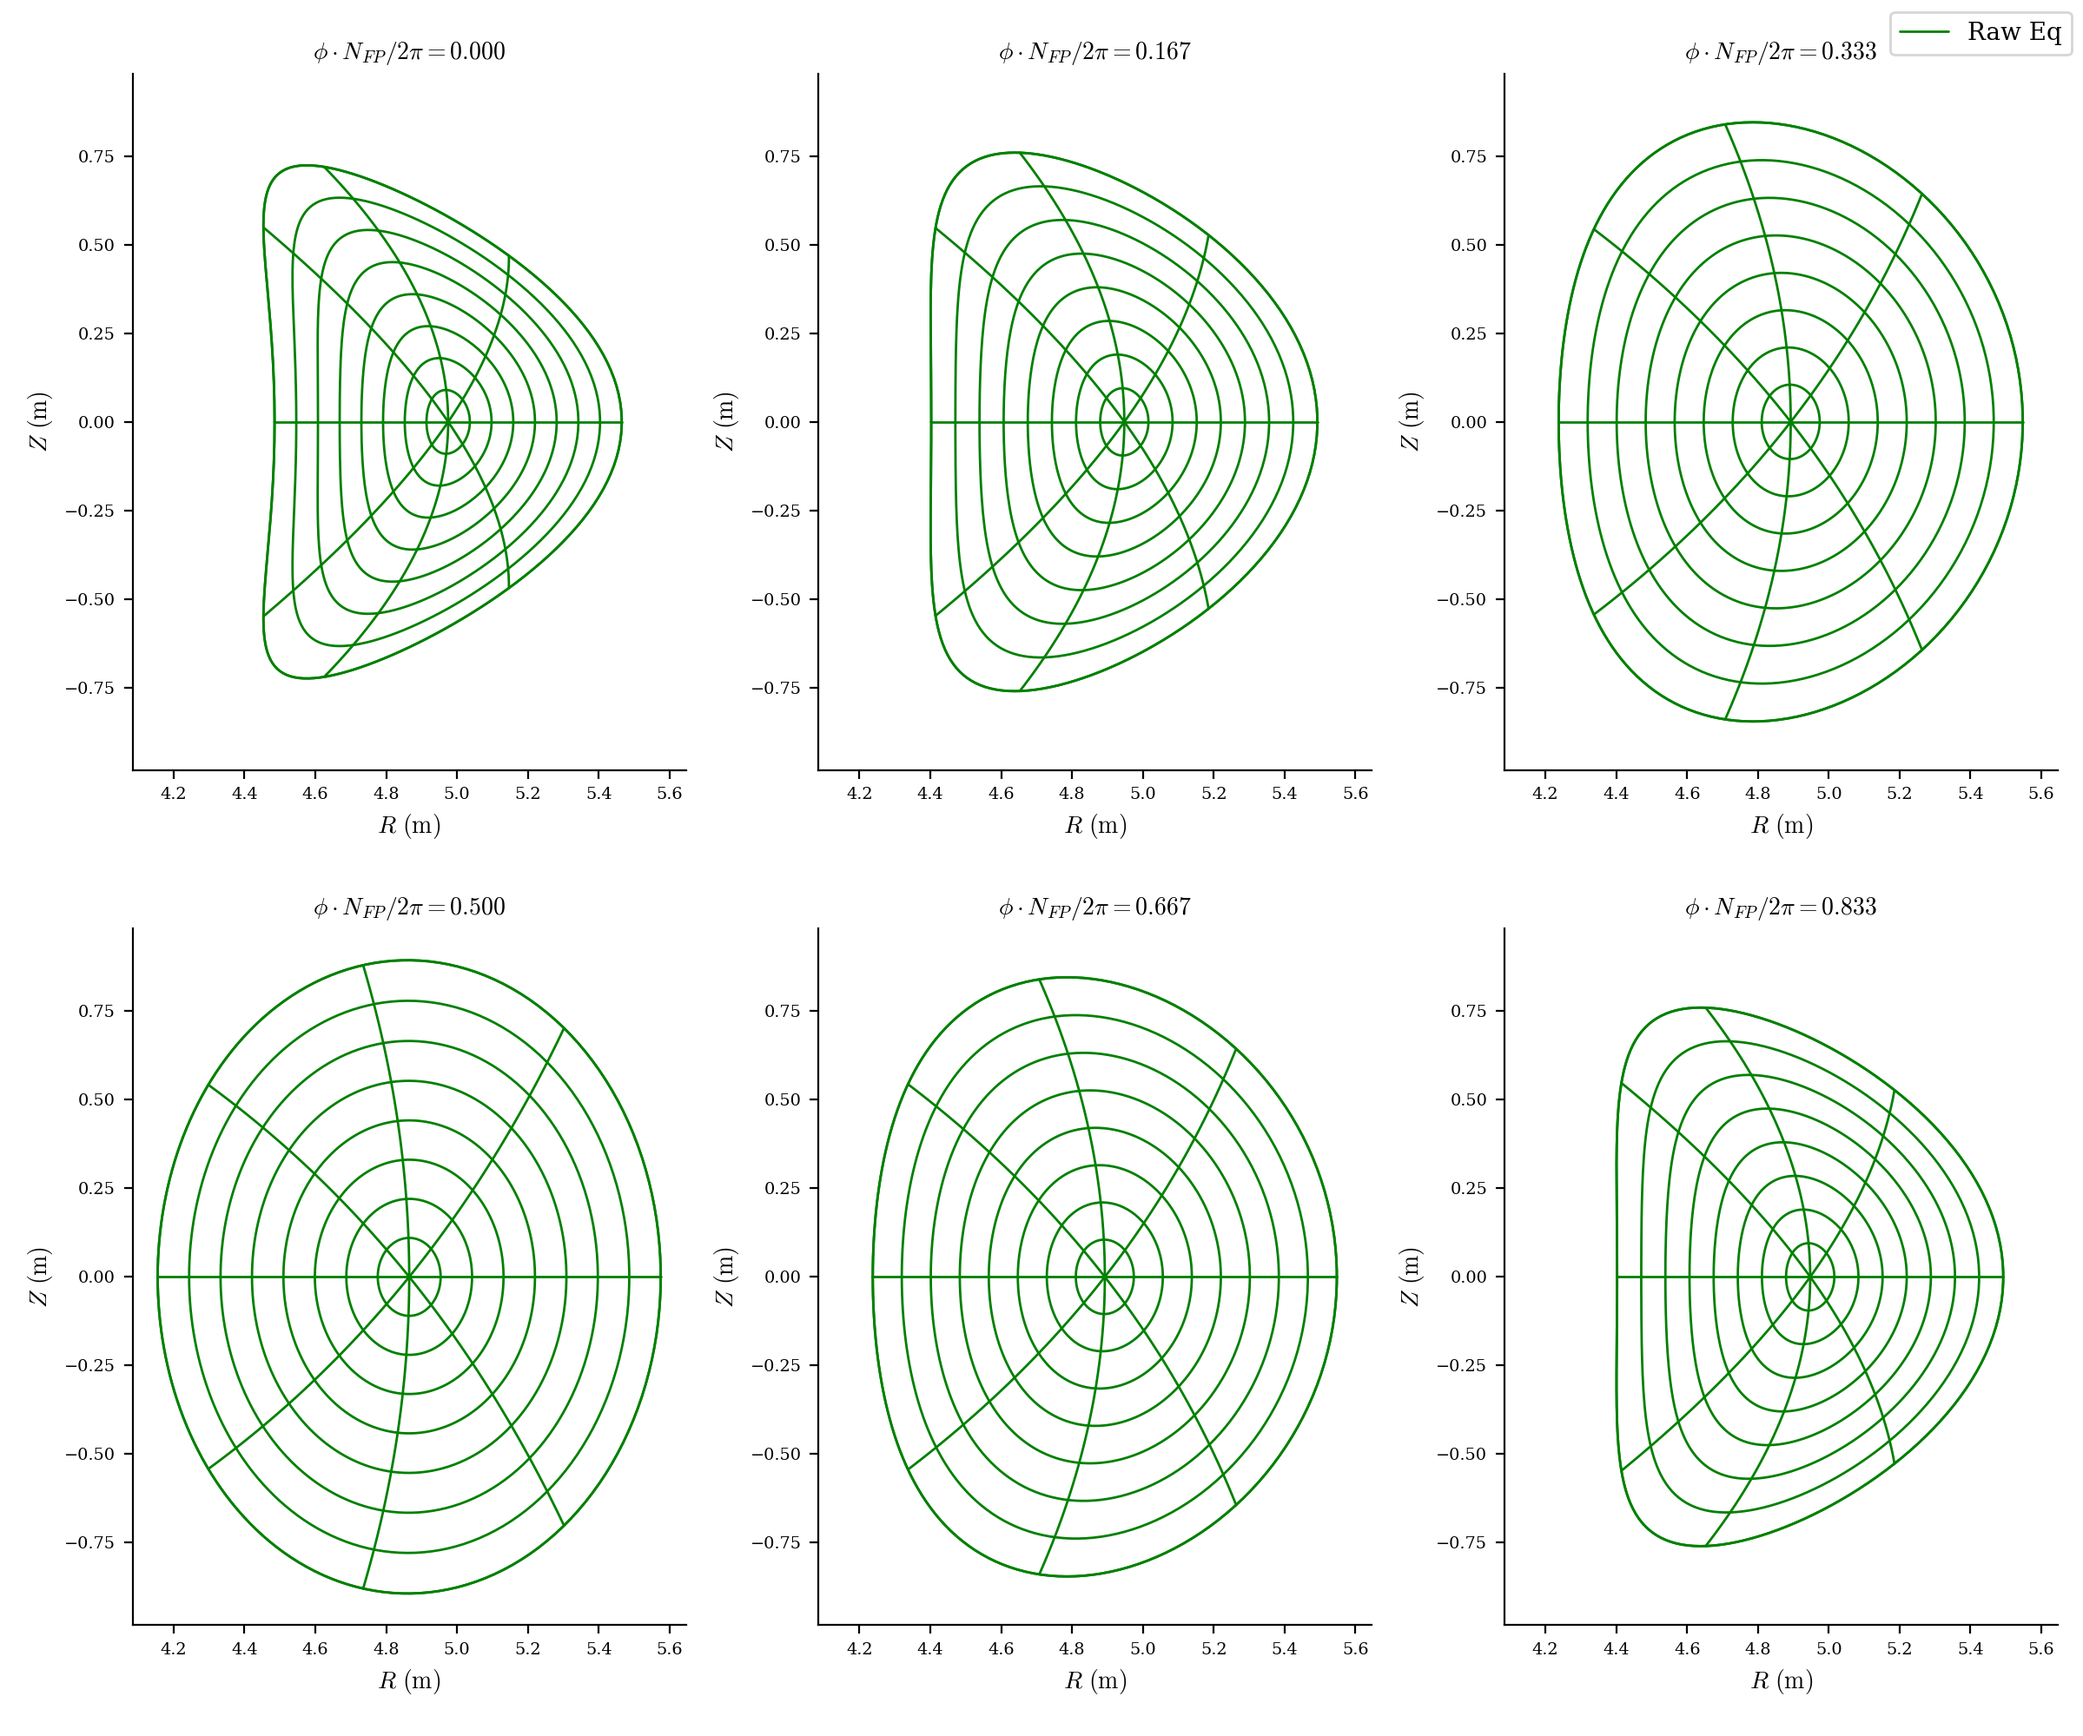
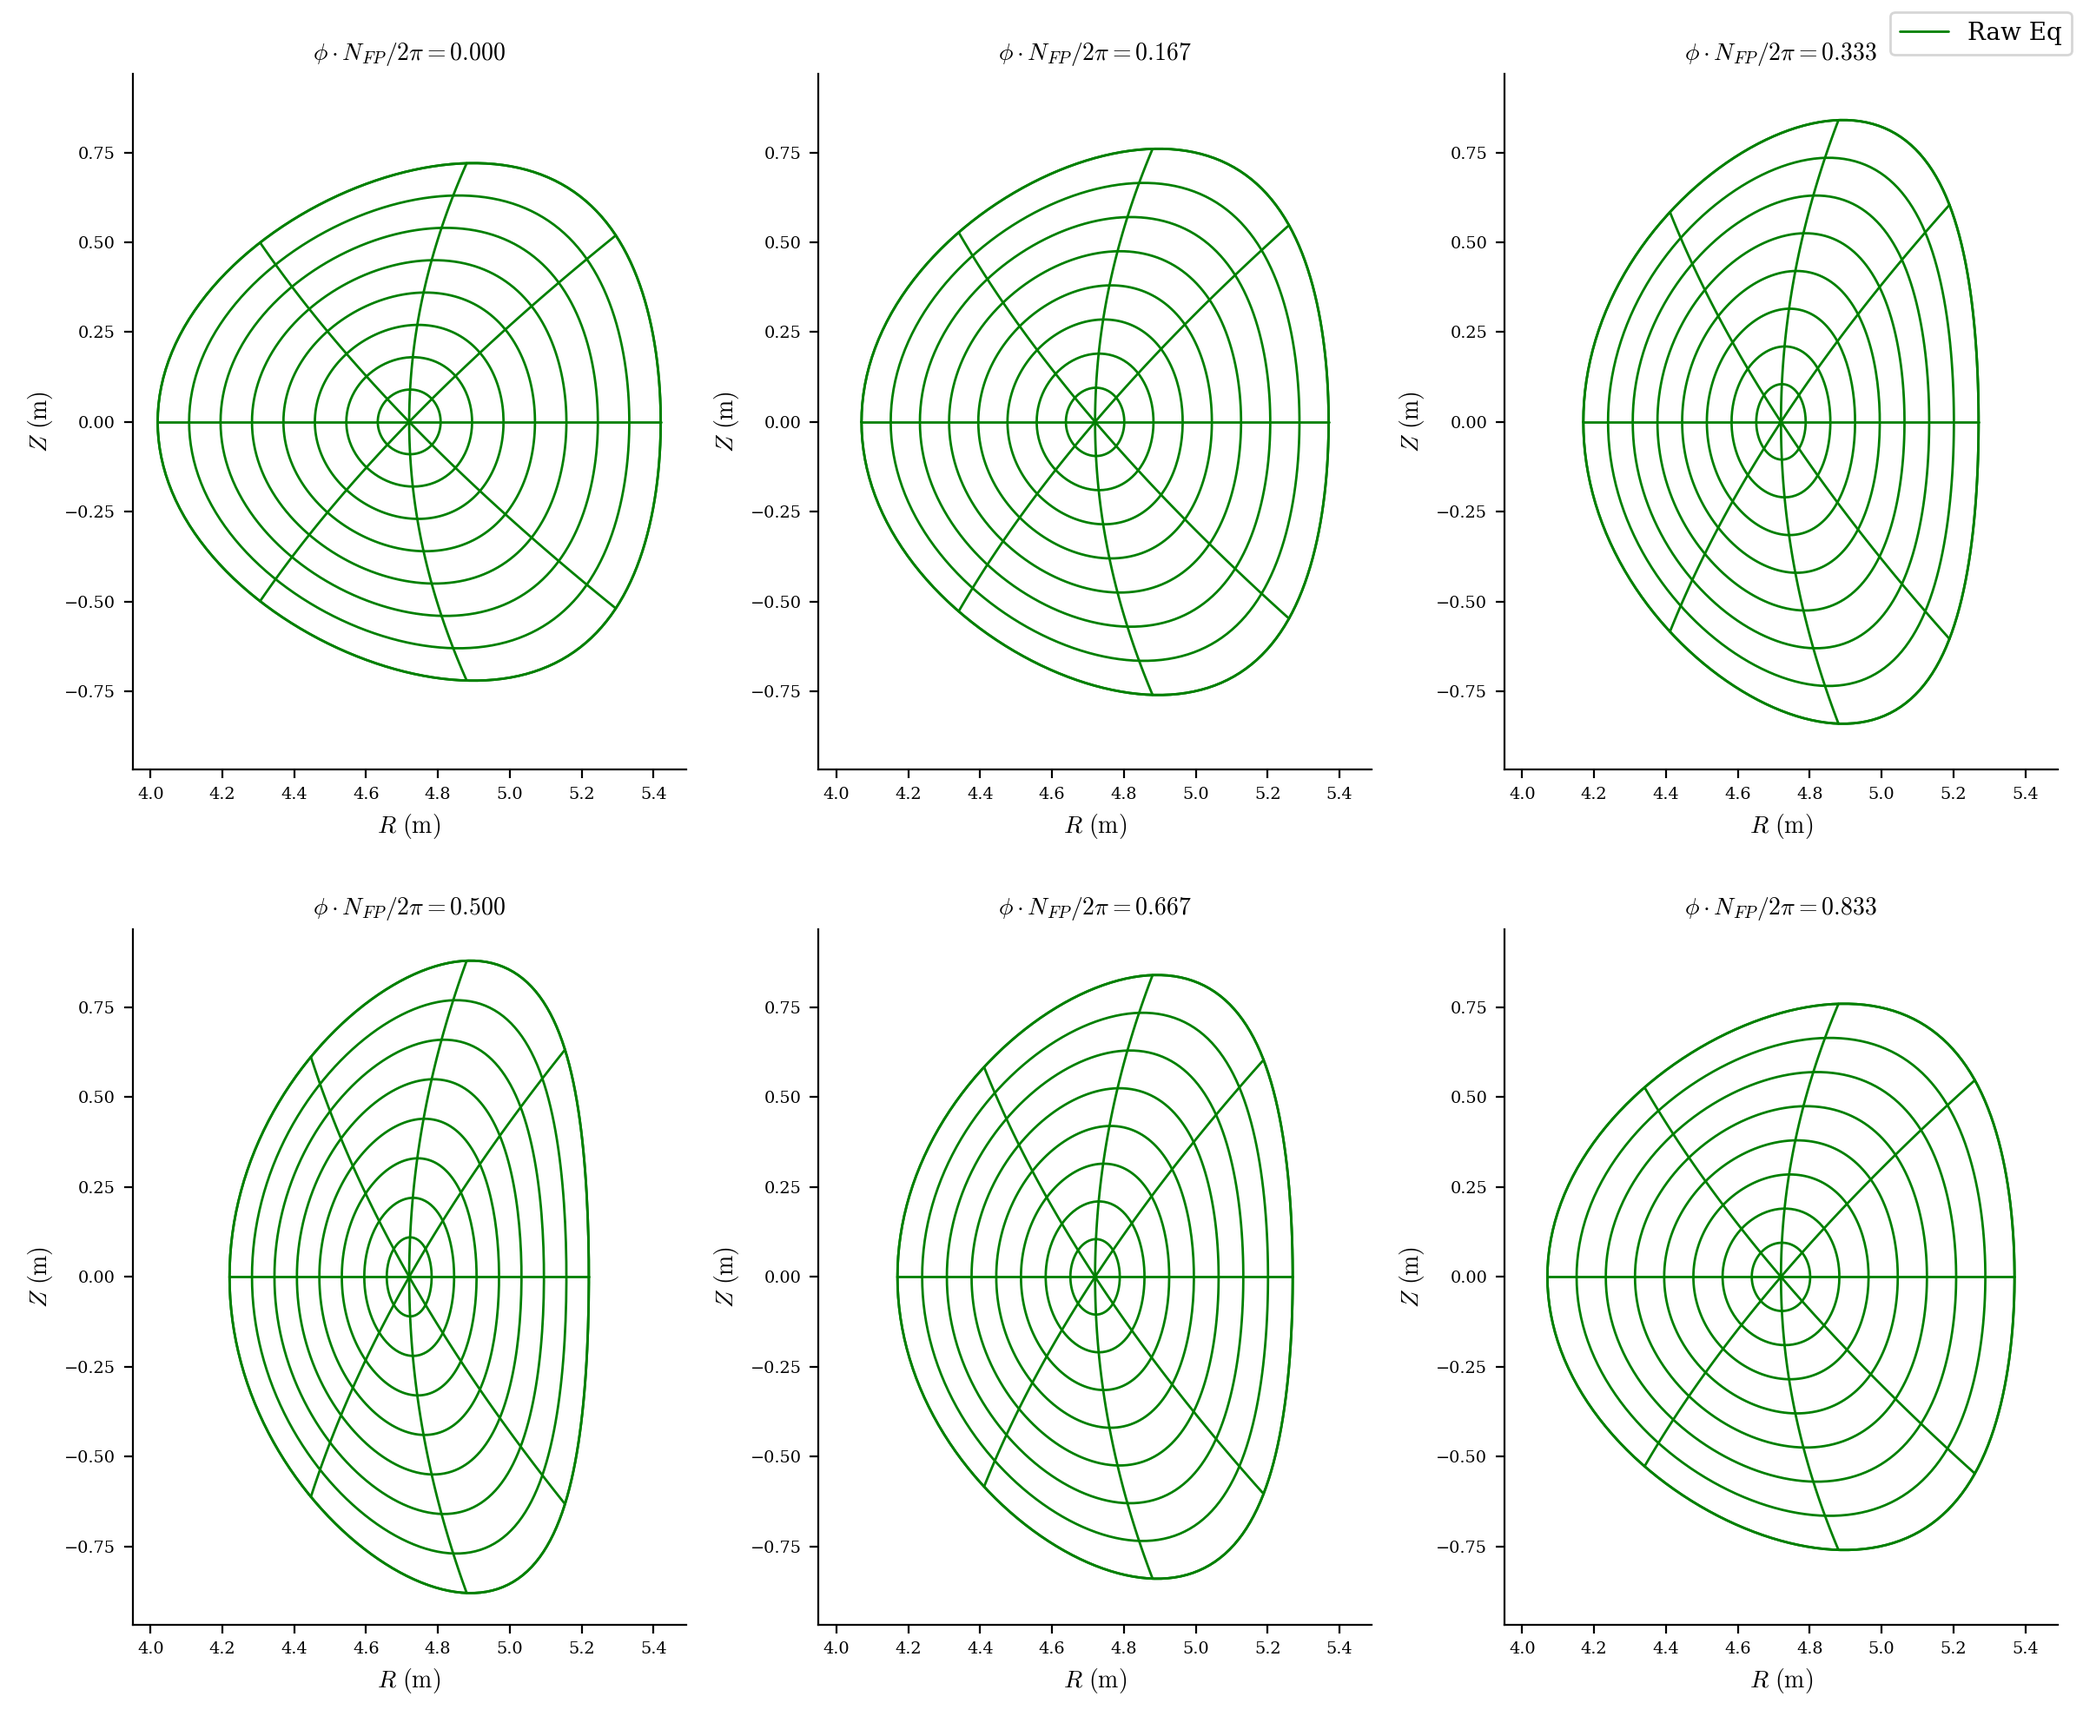
Equilibria I passed the supercomputer were all shit. Will run solve_continuation_automatic when in local mode to screen out bad equilibria

diff --git a/research/neural/config.py b/research/neural/config.py
@@ -44,14 +44,14 @@ FEATURE_CONFIG = {
         "modeR10": (-0.6, -0.2), # elongation R
         "modeZ10": (0.6, 0.8), # elongation Z
 
-        "modeR20": (-0.12, 0.12), # inwards(-) outwards(+) bean
-        "modeZ20": (-0.02, 0.02), # horizontal slosh - can lead to False nested
+        "modeR20": (-0.08, 0.08), # inwards(-) outwards(+) bean
+        "modeZ20": (-0.01, 0.01), # horizontal slosh - can lead to False nested
 
-        "modeR11": (-0.20, 0.110), # pizza zoom
-        "modeZ11": (-0.20, -0.08), # zoom
+        "modeR11": (-0.10, 0.110), # pizza zoom
+        "modeZ11": (-0.10, -0.08), # zoom
 
-        "modeR21": (0, 0.055),
-        "modeZ21": (-0, 0.060),
+        "modeR21": (0, 0.0),
+        "modeZ21": (-0, 0.0),
     }
 
 }

diff --git a/research/poly/FLO_vs_FNO/001/README.md b/research/poly/FLO_vs_FNO/001/README.md
@@ -1,3 +1,4 @@
+```python
 # Config.py
 #===================================================================================================================================================
 from pathlib import Path
@@ -433,3 +434,4 @@ DRIVER_CONFIG = {
     "cluster_max_workers": 1,
 }
 #===================================================================================================================================================
+```
